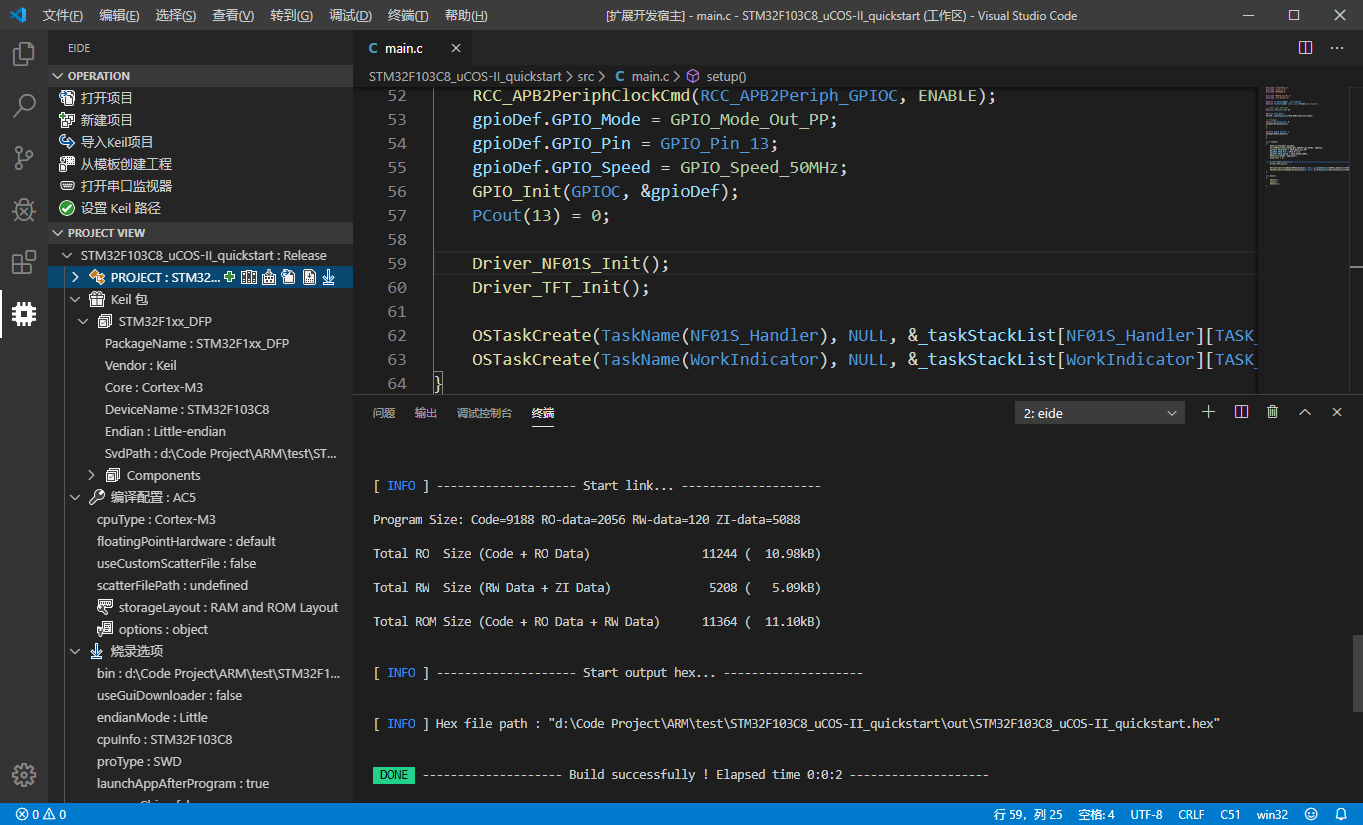
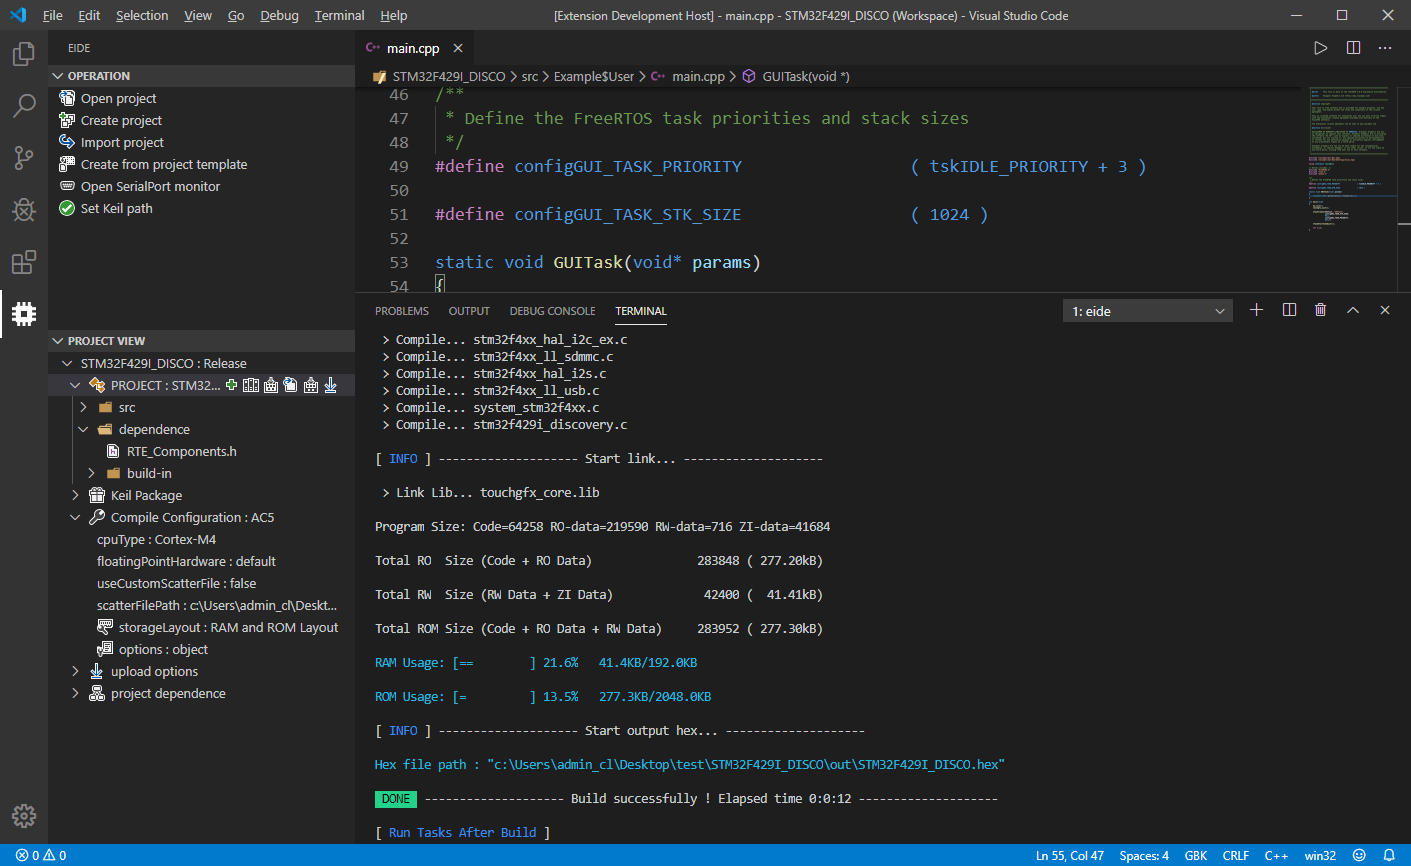
v1.9.3

diff --git a/README.md b/README.md
@@ -62,28 +62,24 @@
 > #### 每次的版本变化，[手册](https://blog.csdn.net/qq_40833810/article/details/104114921)就会更新，注意查看。
 > #### 遇到了问题?😭 👉 途径1：[Github Issue](https://github.com/github0null/eide/issues)，途径2：QQ群: **941749328**
 
+### [v1.9.3]
+- 新增: 显示 RAM 和 Flash 占比
+- 更改: 使用树形视图显示项目文件结构
+- 修复: 无效的宏导致的错误参数
+- 修复: 多线程编译输出流阻塞导致的进程死锁问题
+***
+
+### [v1.9.2]
+- 修复: 当编译选项的 json 配置格式错误时会被强制刷新为默认配置
+- 更改: 可以一次性添加多个宏定义，宏之间用 ';' 分隔
+- 新增: 一键转换 C51 关键字、寄存器定义到 SDCC 所需的格式
+- 优化了一些细节
+***
+
 ### [v1.9.0]
 - 新增：GCC for ARM 工具链，使用前需要到`插件设置`设置好工具链安装目录
 - 新增：可选择在编译时要使用的线程数
 - 修复：工作区配置被强制刷新的问题
-***
-
-### [v1.8.0]
-- 更改：移除内嵌的 JLink 工具，需要自行设置 JLink 安装路径
-- 修复：ARM V6 路径 `\` 导致无法编译的问题
-- 修复：构建工具 Fast-Mode 无法打开头文件的问题
-- 修复：一些其他问题
-- 优化：提升多线程的线程数
-- 优化：插件大小大大减小
-***
-
-### [v1.7.0]
-- 更改：C51 配置转移到 json 配置文件
-- 新增：增加 SDCC 工具链，使用细节见[手册](https://blog.csdn.net/qq_40833810/article/details/104114921)
-- 新增：插件配置 SDCC Install Directory（SDCC 安装目录）
-- 修复：工具链安装位置有空格导致的无法编译的问题
-- 修复：一些其他问题
-- 优化：合并 js 提升插件加载速度
 ***
 
 ## 注意事项 🚩

diff --git a/README_EN.md b/README_EN.md
@@ -61,6 +61,18 @@ A Keil C51/STM32 **project migration tool** and **IDE** with multiple toolchains
 - Add: GCC for ARM toolchain
 - Add: You can choose the number of threads to use at compile time
 - Fixed：problem with workspace configuration being forced to refresh
+- #### [v1.9.1]
+    - Change: Cancel copying unnecessary header files
+- #### [v1.9.2]
+    - Fixed: When the json configuration of the compile option is misformatted, it is forced to refresh to the default configuration
+    - Change: Multiple macro definitions can be added at once, using ';' delimited
+    - Add: One-key conversion of the C51 keyword, register definition to SDCC required format
+    - Some details have been optimized
+- #### [v1.9.3]
+    - Add: Displays the RAM versus Flash ratio
+    - Change: use tree view to display project file structure
+    - Fixed: Error parameter caused by invalid macro
+    - Fixed: Process deadlock problem
 ***
 
 ### [v1.8.0]

diff --git a/CHANGELOG.md b/CHANGELOG.md
@@ -4,12 +4,24 @@ All notable changes to the "eide" extension will be documented in this file.
 
 ***
 
+### [v1.9.3]
+- 新增: 显示 RAM 和 Flash 占比
+- 更改: 使用树形视图显示项目文件结构
+- 修复: 无效的宏导致的错误参数
+- 修复: 多线程编译输出流阻塞导致的进程死锁问题
+***
+
+### [v1.9.2]
+- 修复: 当编译选项的 json 配置格式错误时会被强制刷新为默认配置
+- 更改: 可以一次性添加多个宏定义，宏之间用 ';' 分隔
+- 新增: 一键转换 C51 关键字、寄存器定义到 SDCC 所需的格式
+- 优化了一些细节
+***
+
 ### [v1.9.0]
 - 新增：GCC for ARM 工具链，使用前需要到`插件设置`设置好工具链安装目录
 - 新增：可选择在编译时要使用的线程数
 - 修复：工作区配置被强制刷新的问题
-- #### [1.9.1]
-    - 更改: 取消复制不必要的头文件
 ***
 
 ### [v1.8.0]
